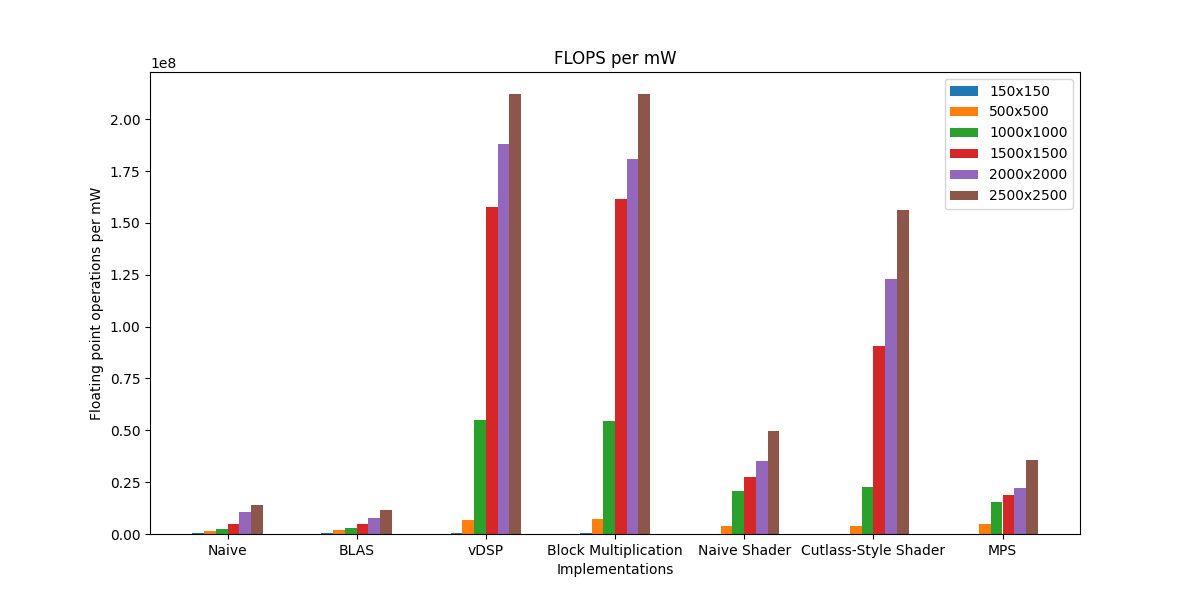
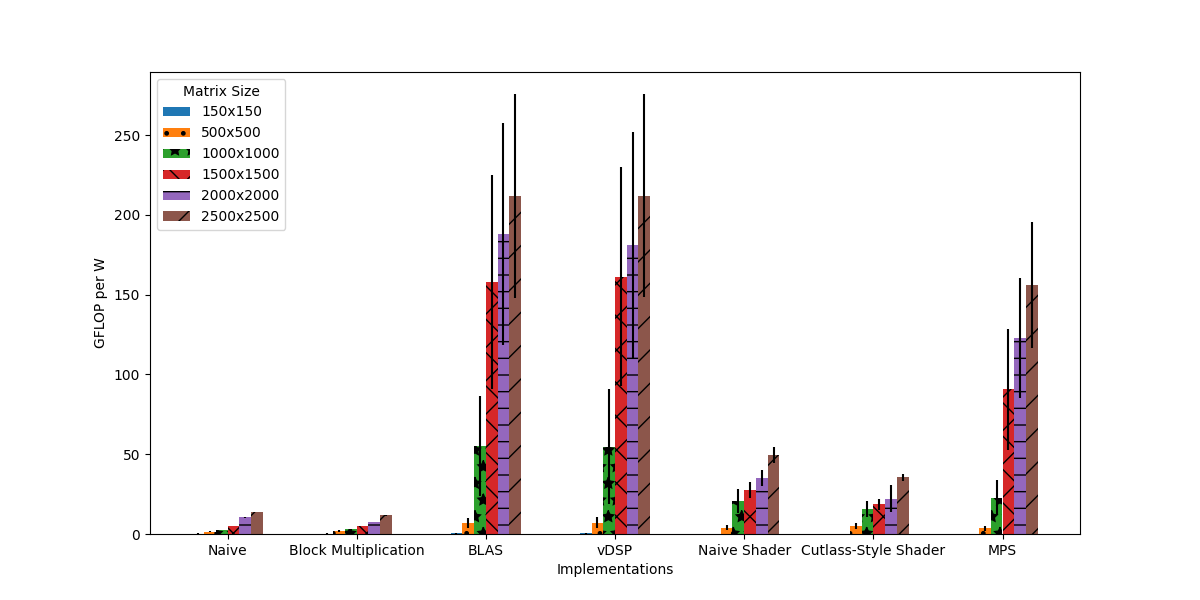
Better results and data.

diff --git a/control/make_analysis.py b/control/make_analysis.py
@@ -6,7 +6,8 @@ import config
 RESULTS_FOLDER = "../results"
 RAW_DATA_FOLDER = "../out"
 
-implementations = ["baseline", "omp", "blas", "dsp", "gpu_baseline", "gpu_mps", "gpu_nv"]
+implementations = ["baseline", "omp", "blas", "dsp", "gpu_baseline", "gpu_nv", "gpu_mps"]
+labels = ["Naive", "Block Multiplication", "BLAS", "vDSP", "Naive Shader", "Cutlass-Style Shader", "MPS"]
 
 
 def setup():
@@ -48,11 +49,13 @@ def get_timing_data(implementation):
 def plot_timing_implementation(implementation, label, fmt, color):
     y, err = get_timing_data(implementation)
     plt.errorbar(config.sizes, y, yerr=err, fmt=fmt, color=color, label=label)
+    print(label, "&", " & ".join([f"{m:.2f} \\pm {s:.2f}" for m, s in zip(y, err)]), "\\\\")
 
 
 def plot_timing():
     plt.cla()
     plt.figure(figsize=(7, 9))
+    print("TIMING [ms]")
     plot_timing_implementation("baseline", "Naive", "o", "C0")
     plot_timing_implementation("blas", "BLAS", "v", "C1")
     plot_timing_implementation("dsp", "vDSP", "^", "C2")
@@ -61,10 +64,10 @@ def plot_timing():
     plot_timing_implementation("gpu_nv", "Cutlass-Style Shader", "h", "C5")
     plot_timing_implementation("gpu_mps", "MPS", "*", "C6")
     plt.xlabel("Matrix size")
-    plt.ylabel("Average multiplication time [ms] (log scale)")
+    plt.xticks(config.sizes)
+    plt.ylabel("Average multiplication time [ms], log scale, lower is better")
     plt.yscale("log")
-    plt.title("Matrix Size vs. Average Multiplication Time")
-    plt.legend()
+    plt.legend(title="Implementation")
     plt.savefig(RESULTS_FOLDER + "/timing.png")
 
 
@@ -73,10 +76,12 @@ def plot_power_implementation(implementation, label, fmt, color):
     y = np.mean(all_data, axis=1)
     err = np.std(all_data, axis=1)
     plt.errorbar(config.sizes, y, yerr=err, fmt=fmt, color=color, label=label)
+    print(label, "&", " & ".join([f"{m:.2f} & {s:.2f}" for m, s in zip(y, err)]), "\\\\")
 
 
 def plot_power():
     plt.cla()
+    print("\n\nPOWER [mW]")
     plot_power_implementation("baseline", "Naive", "o", "C0")
     plot_power_implementation("blas", "BLAS", "v", "C1")
     plot_power_implementation("dsp", "vDSP", "^", "C2")
@@ -85,9 +90,9 @@ def plot_power():
     plot_power_implementation("gpu_nv", "Cutlass-Style Shader", "h", "C5")
     plot_power_implementation("gpu_mps", "MPS", "*", "C6")
     plt.xlabel("Matrix size")
-    plt.ylabel("Average power dissipation (mW)")
-    plt.title("Matrix Size vs. Average Power Dissipation")
-    plt.legend()
+    plt.xticks(config.sizes)
+    plt.ylabel("Average power dissipation [mW], lower is better")
+    plt.legend(title="Implementation")
     plt.savefig(RESULTS_FOLDER + "/power.png")
 
 
@@ -99,32 +104,40 @@ def plot_granular_values(matrix_size):
 
 def plot_granular(matrix_size):
     plt.cla()
-    labels = ["Naive", "BLAS", "vDSP", "Block Multiplication", "Naive Shader", "Cutlass-Style Shader", "MPS"]
+    print("\n\nGRANULAR [mW]", matrix_size)
     eff, pwr, gpu = plot_granular_values(matrix_size)
     eff_y, pwr_y, gpu_y = np.mean(eff, axis=1), np.mean(pwr, axis=1), np.mean(gpu, axis=1)
     eff_err, pwr_err, gpu_err = np.std(eff, axis=1), np.std(pwr, axis=1), np.std(gpu, axis=1)
     eff_err_lower = np.clip(eff_err, None, eff_y)
     pwr_err_lower = np.clip(pwr_err, None, pwr_y)
     gpu_err_lower = np.clip(gpu_err, None, gpu_y)
+    for i, implementation in enumerate(implementations):
+        print(labels[i], "&",
+              "%.2f" % eff_y[i], "&", "%.2f" % eff_err[i], "&",
+              "%.2f" % pwr_y[i], "&", "%.2f" % pwr_err[i], "&",
+              "%.2f" % gpu_y[i], "&", "%.2f" % gpu_err[i], "\\\\")
 
     n_categories = len(implementations)
     group_height = 0.6
     bar_height = group_height / 3
     category_spacing = 0.4
     y_positions = np.arange(n_categories) * (group_height + category_spacing)
-    y_positions_eff = y_positions - bar_height
+    y_positions = y_positions[::-1]
+    y_positions_eff = y_positions + bar_height
     y_positions_pwr = y_positions
-    y_positions_gpu = y_positions + bar_height
+    y_positions_gpu = y_positions - bar_height
 
     plt.figure(figsize=(13, 6))
-    plt.barh(y_positions_eff, eff_y, xerr=[eff_err_lower, eff_err], height=bar_height, label="Efficiency Cores")
-    plt.barh(y_positions_pwr, pwr_y, xerr=[pwr_err_lower, pwr_err], height=bar_height, label="Power Cores")
-    plt.barh(y_positions_gpu, gpu_y, xerr=[gpu_err_lower, gpu_err], height=bar_height, label="GPU")
-    plt.xlabel("Average power dissipation per component (mW)")
+    plt.barh(y_positions_eff, eff_y, xerr=[eff_err_lower, eff_err], height=bar_height,
+             label="Efficiency Cores", hatch=None)
+    plt.barh(y_positions_pwr, pwr_y, xerr=[pwr_err_lower, pwr_err], height=bar_height,
+             label="Power Cores", hatch="/")
+    plt.barh(y_positions_gpu, gpu_y, xerr=[gpu_err_lower, gpu_err], height=bar_height,
+             label="GPU", hatch="|")
+    plt.xlabel("Average power dissipation per component [mW], lower is better")
     plt.ylabel("Implementation")
     plt.yticks(y_positions, labels)
-    plt.title(f"[{matrix_size}x{matrix_size}] Power Dissipation Per Component")
-    plt.legend()
+    plt.legend(title="Components", loc="lower right")
     plt.savefig(RESULTS_FOLDER + f"/granular-{matrix_size}x{matrix_size}.png")
 
 
@@ -135,16 +148,17 @@ def num_flop(matrix_size):
 def plot_flop_values():
     raw = [[[get_powers(matrix_size, i, implementation) for i in range(1, 6)]
             for matrix_size in config.sizes] for implementation in implementations]
-    watts = np.sum(np.array(raw), axis=3)
-    flops = np.array([num_flop(matrix_size) for matrix_size in config.sizes])[:, np.newaxis]
+    watts = np.sum(np.array(raw), axis=3) / 1_000  # conversion: milli watt to watt
+    flops = np.array([num_flop(matrix_size) for matrix_size in config.sizes])[:, np.newaxis] / 1_000_000_000
     flops_per_watt = flops / watts
     return np.mean(flops_per_watt, axis=2), np.std(flops_per_watt, axis=2)
 
 
 def plot_flop():
     plt.cla()
-    labels = ["Naive", "BLAS", "vDSP", "Block Multiplication", "Naive Shader", "Cutlass-Style Shader", "MPS"]
+    print("\n\nGFLOP per W")
     components = [f"{n}x{n}" for n in config.sizes]
+    formats = [None, ".", "*", "x", "-", "/"]
     y, y_err = plot_flop_values()
 
     num_categories = len(labels)
@@ -156,15 +170,27 @@ def plot_flop():
     x_positions = [x_base + i * component_spacing for i in range(num_components)]
     fig, ax = plt.subplots(figsize=(12, 6))
     for i, component in enumerate(components):
-        ax.bar(x_positions[i], y[:, i], width=bar_width, label=component)
+        ax.bar(x_positions[i], y[:, i], yerr=y_err[:, i], width=bar_width, label=component, hatch=formats[i])
+        print(labels[i], "&", " & ".join([f"{m:.2f} \\pm {s:.2f}" for m, s in zip(y[:, i], y_err[:, i])]))
 
     ax.set_xlabel("Implementations")
-    ax.set_ylabel("Floating point operations per mW")
-    ax.set_title("FLOPS per mW")
+    ax.set_ylabel("GFLOP per W")
     ax.set_xticks(x_base + (num_components - 1) * bar_width / 2)
     ax.set_xticklabels(labels)
-    ax.legend()
+    ax.legend(title="Matrix Size", loc="upper left")
     plt.savefig(RESULTS_FOLDER + "/efficiency.png")
+
+
+def calculate_flops():
+    print("\n\nGFLOPS")
+    for i, implementation in enumerate(implementations):
+        raw = [[get_timing(size, trial, implementation) for trial in range(1, 6)] for size in config.sizes]
+        times = np.array(raw) / 1_000  # conversion: seconds
+        flop = np.array([num_flop(matrix_size) for matrix_size in config.sizes]) / 1_000_000_000  # conversion: giga
+        flops = flop[:, np.newaxis] / times
+        mean = np.mean(flops, axis=1)
+        std = np.std(flops, axis=1)
+        print(labels[i], "&", " & ".join([f"{m:.2f} \\pm {s:.2f}" for m, s in zip(mean, std)]), "\\\\")
 
 
 if __name__ == "__main__":
@@ -174,3 +200,4 @@ if __name__ == "__main__":
     for ms in config.sizes:
         plot_granular(ms)
     plot_flop()
+    calculate_flops()
